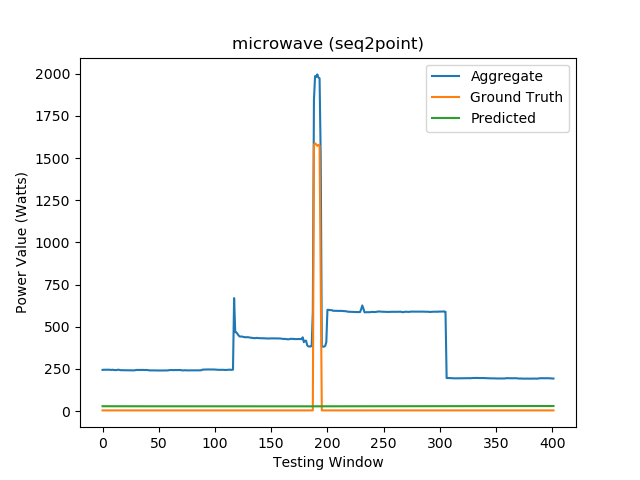
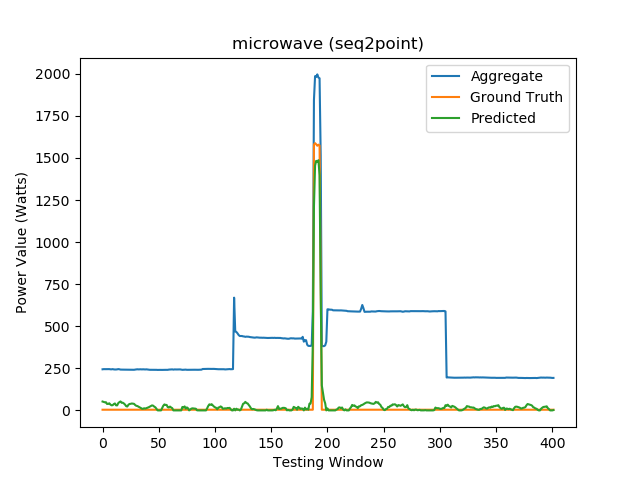
Sensible model and results

diff --git a/seq2point_test.py b/seq2point_test.py
@@ -38,14 +38,25 @@ class Tester():
         self._input_window_length = input_window_length
         self.__window_size = self._input_window_length + 2
         self.__window_offset = int(0.5 * self.__window_size - 1)
-        #self.__number_of_windows = 800
-        self.__number_of_windows = 100
+        self.__number_of_windows = 800
+        #self.__number_of_windows = 100
 
         self.__test_directory = test_directory
         self.__saved_model_dir = saved_model_dir
 
         self.__log_file = log_file_dir
         logging.basicConfig(filename=self.__log_file,level=logging.INFO)
+
+    def mae(self, prediction, true):
+        MAE = abs(true - prediction)
+        MAE = np.sum(MAE)
+        MAE = MAE / len(prediction)
+        return MAE
+
+    def sae(self, prediction, true):
+        SAE = abs(true - prediction)
+        SAE = np.sum(SAE)
+        return SAE
 
     def test_model(self):
 
@@ -178,6 +189,9 @@ class Tester():
 
         """
 
+        comparable_metric_string = "Model values - MAE: ", str(self.mae(testing_history, test_target)), " SAE: ", str(self.sae(testing_history, test_target))
+        logging.info(comparable_metric_string)
+
         testing_history = ((testing_history * appliance_data[self.__appliance]["std"]) + appliance_data[self.__appliance]["mean"])
         test_target = ((test_target * appliance_data[self.__appliance]["std"]) + appliance_data[self.__appliance]["mean"])
         test_agg = (test_input.flatten() * mains_data["std"]) + mains_data["mean"]
@@ -188,9 +202,12 @@ class Tester():
         testing_history[testing_history < 0] = 0
         test_input[test_input < 0] = 0
 
+        comparable_metric_string = "Real values - MAE: ", str(self.mae(testing_history, test_target)), " SAE: ", str(self.sae(testing_history, test_target))
+        logging.info(comparable_metric_string)
+
         # Plot testing outcomes against ground truth.
         plt.figure(1)
-        plt.plot(test_agg[self.__window_offset: -self.__window_offset], label="Aggregate")
+        #plt.plot(test_agg[self.__window_offset: -self.__window_offset], label="Aggregate")
         plt.plot(test_target[:test_agg.size - (2 * self.__window_offset)], label="Ground Truth")
         plt.plot(testing_history[:test_agg.size - (2 * self.__window_offset)], label="Predicted")
         plt.title(self.__appliance + " " + self.__network_type + "(" + self.__algorithm + ")")
@@ -198,7 +215,7 @@ class Tester():
         plt.xlabel("Testing Window")
         plt.legend()
 
-        file_path = "./" + "saved_models/" + self.__appliance + "_" + self.__algorithm + "_" + self.__network_type + "_test_figure.png"
+        file_path = "./" + "saved_models/" + self.__appliance + "_" + self.__algorithm + "_" + self.__network_type + "_test_figureAgainstAttention (without mains).png"
         plt.savefig(fname=file_path)
 
         print(test_agg.shape, test_target.shape, testing_history.shape)

diff --git a/seq2point_train.py b/seq2point_train.py
@@ -103,19 +103,19 @@ class Trainer():
         early_stopping = tf.keras.callbacks.EarlyStopping(monitor="val_loss", min_delta=self.__min_delta, patience=self.__patience, verbose=self.__verbose, mode="auto")
 
         ## can use checkpoint ###############################################
-        # checkpoint_filepath = "checkpoint/housedata/refit/"+ self.__appliance + "/"
-        # model_checkpoint_callback = tf.keras.callbacks.ModelCheckpoint(
-        #     filepath = checkpoint_filepath,
-        #     monitor='val_loss',
-        #     verbose=0,
-        #     save_best_only=True,
-        #     save_weights_only=False,
-        #     mode='auto',
-        #     save_freq='epoch')        
-        #callbacks=[early_stopping, model_checkpoint_callback]
+        checkpoint_filepath = "./checkpoints/"+ self.__appliance + ".hdf5"
+        model_checkpoint_callback = tf.keras.callbacks.ModelCheckpoint(
+             filepath = checkpoint_filepath,
+             monitor='val_loss',
+             verbose=0,
+             save_best_only=True,
+             save_weights_only=False,
+             mode='min',
+             save_freq='epoch')        
+        callbacks=[early_stopping, model_checkpoint_callback]
         ###################################################################
 
-        callbacks=[early_stopping]
+        #callbacks=[early_stopping]
         
         training_history = self.default_train(model, callbacks, steps_per_training_epoch)
 
